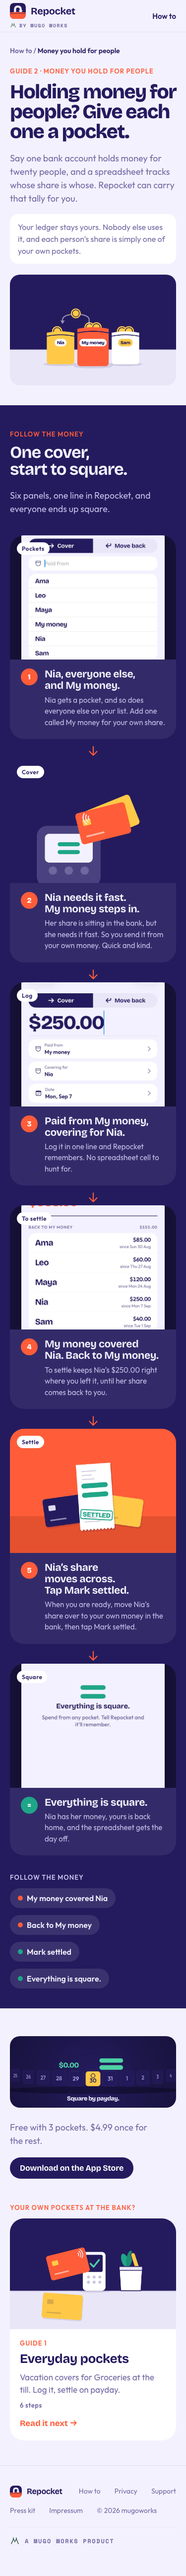
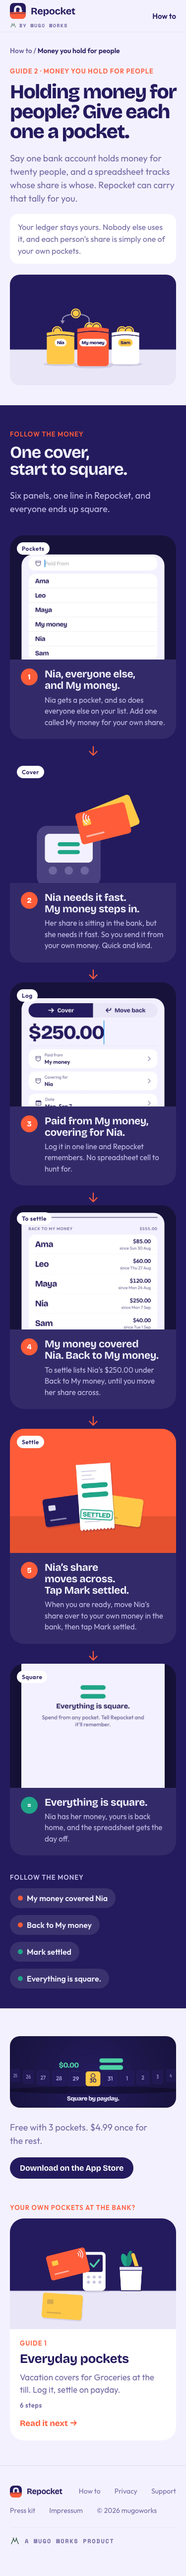
fix(how-to): people panels keep the chip clear at every width, and panel 4 says you move her share [repocket-site-es7]
The people screen panels shifted each capture by a share of its height,
but the screen shrinks with the panel (about 490 to 650 px tall) while
the corner chip does not, so at 981 to 1100 the To settle chip covered
"Back to My money" and the Pockets chip covered part of "Cover". Each
screen panel now pins its first meaningful row a fixed distance below
the chip, calc(-<row>% + 42px) (44px for the To settle header), and
clips the screen just above that row, so the chip sits over the dark
frame at 375, 820, 981, 1024, 1100, 1180, 1280 and 1440, and no sliver
of the To settle total peeks out.

Panel 4's body now reads "To settle lists Nia's $250.00 under Back to My
money, until you move her share across.", matching panel 5, where you
move her share yourself.

The stack adapter describes the pinned rows and clips, the widths they
were checked at, and what swapping in the flat To settle alternate
takes. The terminology Placeholder entry drops the How to capture
slots, leaving the contact address as the one placeholder.

Bead: repocket-site-es7

diff --git a/how-to/people.html b/how-to/people.html
@@ -59,9 +59,9 @@ nav.site .wrap{display:flex;align-items:center;gap:18px;min-height:64px}
 .pn .frame>img{width:100%;height:100%;object-fit:cover}
 .pn .frame.scr>img{width:86%;height:auto;margin:22px auto 0;border-radius:22px;box-shadow:0 10px 30px rgba(0,0,0,.3)}
 .pn .frame.scr.mid>img{margin-top:0;transform:translateY(-33%)}
-/* each screen panel shows only a window of its capture, so it slides to the rows its caption names */
-.pn .frame.scr.at>img{margin-top:0;transform:translateY(var(--at))}
-.pn .frame.at-picker{--at:-15.5%}.pn .frame.at-log{--at:-13%}.pn .frame.at-settle{--at:-18.6%}
+/* each screen panel shows a window of its capture: the first row that matters sits a fixed distance below the chip at any width, and the clip cuts the screen just above it */
+.pn .frame.scr.at>img{margin-top:0;transform:translateY(var(--at));clip-path:inset(var(--clip) 0 0 0 round 22px 22px 0 0)}
+.pn .frame.at-picker{--at:calc(-22.2% + 42px);--clip:21.6%}.pn .frame.at-log{--at:calc(-16.53% + 42px);--clip:15%}.pn .frame.at-settle{--at:calc(-25.14% + 44px);--clip:20.5%}
 .pn .chip{position:absolute;top:14px;left:14px;z-index:2;padding:5px 10px;border-radius:999px;background:#fff;color:var(--ink);font:600 12px var(--text);letter-spacing:.04em}
 .pn .cap{padding:18px 22px 22px;display:flex;gap:14px;align-items:flex-start}
 .pn .no{flex:none;width:34px;height:34px;border-radius:50%;background:var(--coral);color:#fff;font:800 15px var(--display);display:flex;align-items:center;justify-content:center}
@@ -151,7 +151,7 @@ footer{padding:40px 0 60px;border-top:1px solid rgba(36,27,94,.1);font-size:14px
   <li class="pn">
    <span class="chip">To settle</span>
    <div class="frame scr at at-settle"><img src="../assets/screens/how-to/people-to-settle.webp" width="640" height="1392" decoding="async" loading="lazy" alt="Repocket's To settle screen: $555.00, 5 to settle, all under Back to My money: Ama, Leo, Maya, Nia for $250.00 since Mon 7 Sep, and Sam."></div>
-   <div class="cap"><span class="no" aria-hidden="true">4</span><div><h3>My money covered Nia. Back to My money.</h3><p>To settle keeps Nia’s $250.00 right where you left it, until her share comes back to you.</p></div></div>
+   <div class="cap"><span class="no" aria-hidden="true">4</span><div><h3>My money covered Nia. Back to My money.</h3><p>To settle lists Nia’s $250.00 under Back to My money, until you move her share across.</p></div></div>
   </li>
   <li class="pn">
    <span class="chip">Settle</span>

diff --git a/docs/adapters/stack.md b/docs/adapters/stack.md
@@ -58,17 +58,21 @@ URL until a custom domain is added.
 
   The capture set also holds `people-to-settle-flat.png`, an alternate for `people-to-settle`
   (flat cards, one reading "My money covered Nia", no "Back to My money" header). Swapping it in is
-  the one WebP plus that panel's alt text in `how-to/people.html`. Its "My money covered Nia" card
-  stays in view at the panel's current offset; only a sliver of its larger total shows at the top
-  edge, which an offset near -21% tidies.
+  the one WebP plus three edits in `how-to/people.html`: that panel's alt text, its body copy
+  (which names Back to My money), and the `at-settle` row and clip below, which are measured
+  against the grouped capture's rows.
 
   To swap one: `sips -z 1392 640 <capture>.png --out /tmp/slot.png && cwebp -q 85 -metadata none
   /tmp/slot.png -o assets/screens/how-to/<slot>.webp`, then render the page. The people panels
-  show only a window of each screen (roughly 40 percent of its height at 375, 50 percent at
-  1440), so each screen panel slides its capture up to the rows its caption names: the
-  `at-picker`, `at-log` and `at-settle` classes in `how-to/people.html` set that offset as a
-  share of the screen's height. A new capture with a different layout needs its offset checked
-  at both widths, with the corner chip clear of the words that matter.
+  show only a window of each screen, and the screen shrinks with the panel (about 490 to 650 px
+  tall between 375 and 1440 wide) while the corner chip's bottom edge stays 39 px down. So each screen panel
+  pins the first row that matters a fixed distance below the chip, `--at: calc(-<row>% + 42px)`
+  (44px for To settle's small header), and clips the screen just above that row with `--clip`,
+  set on the `at-picker`, `at-log` and `at-settle` classes in `how-to/people.html`. The rows are
+  percentages of the capture's height: the Paid from field (22.2%), the Cover toggle (16.53%) and
+  the "Back to My money" header (25.14%). With those values the chip sits over the dark frame,
+  clear of every word, at 375, 820, 981, 1024, 1100, 1180, 1280 and 1440. A new capture with a
+  different layout needs its row and clip measured again and checked at those widths.
 - `assets/press/` holds the press kit files that `press.html` shows and links: the en-US App
   Store frames, app screens and widgets (PNG, copied unchanged from the app repo), the four
   illustrations at 21:9, 16:9 and 3:2 (plus 1200px WebP previews for the page), the app icon (SVG,

diff --git a/docs/guide/terminology.md b/docs/guide/terminology.md
@@ -119,13 +119,10 @@ Return, move back and settle keep their meaning and stay in English copy.
   same tab, in its storefront-neutral form `https://apps.apple.com/app/id6809761332`, so every
   visitor lands on their own country's store; `press.html` and the closer of each How to guide
   link the same URL. The nav carries no store button.
-- **Placeholder**: a value in the shipped copy that resolves to something real later; two are
+- **Placeholder**: a value in the shipped copy that resolves to something real later; one is
   known today:
     - `hello@getrepocket.com`: the contact address on privacy, support, and press. Ensure the
       inbox is configured before publishing.
-    - the "Capture needed" images in five How to screen slots, until app repo bead
-      repocket-0bpt delivers the captures (the slot list is in the
-      [stack adapter](../adapters/stack.md)).
 
 ## Deprecated — do not use
 
